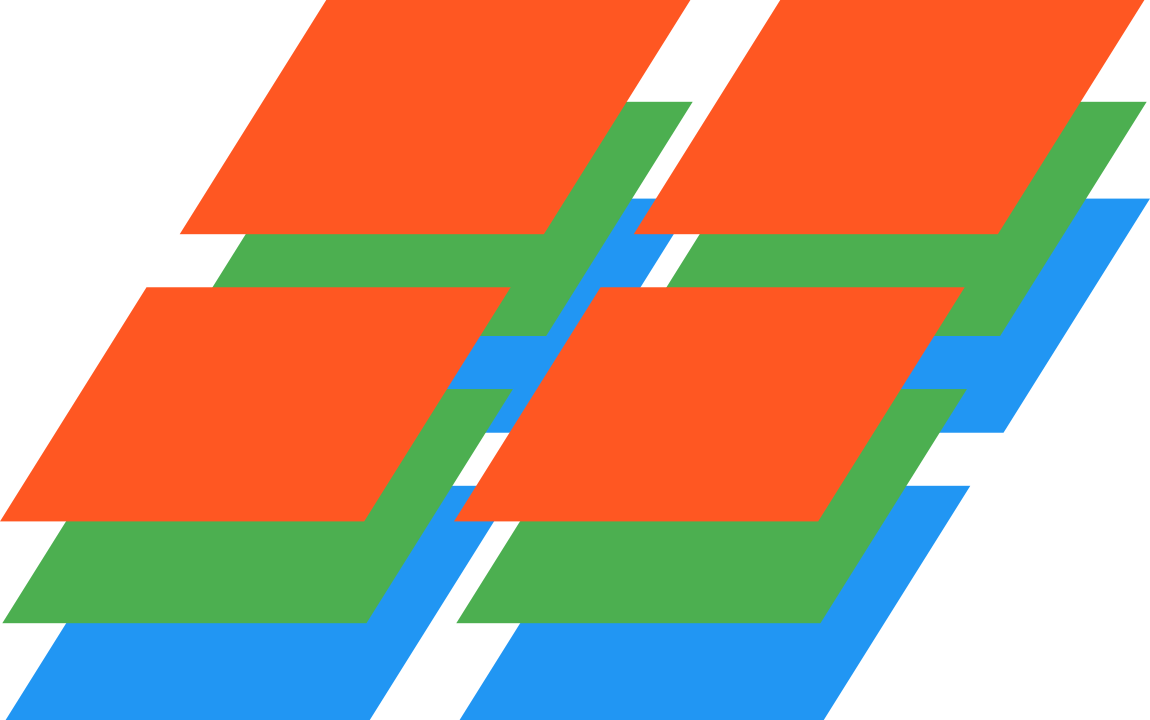
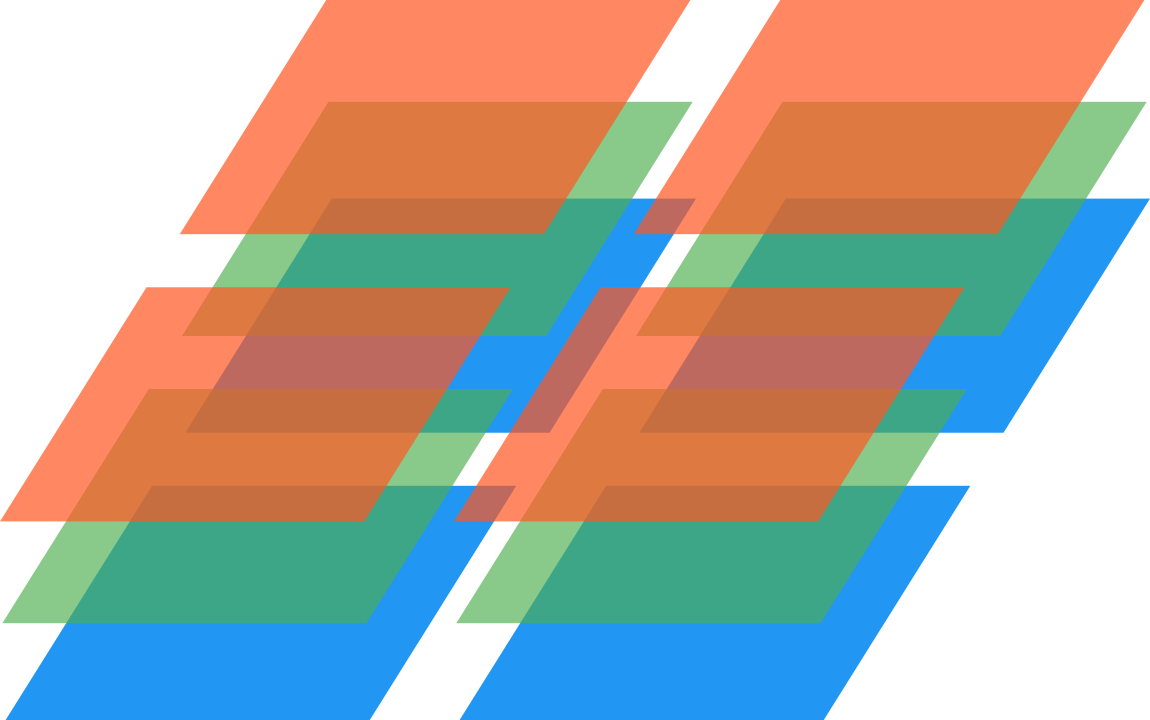
Use alpha for layer illustration

diff --git a/Readme.md b/Readme.md
@@ -97,7 +97,7 @@ the superposition of tiles from all pyramids for the given level. For example, a
 (starting from the lowest scale), tiles would look like the image below when three layers are added.
 
 <p align="center">
-<img src="doc/readme-files/layer.png" width="300">
+<img src="doc/readme-files/layer.png" width="200">
 </p>
 
 Your implementation of the `TileStreamProvider` interface (see below) is what defines a tile
